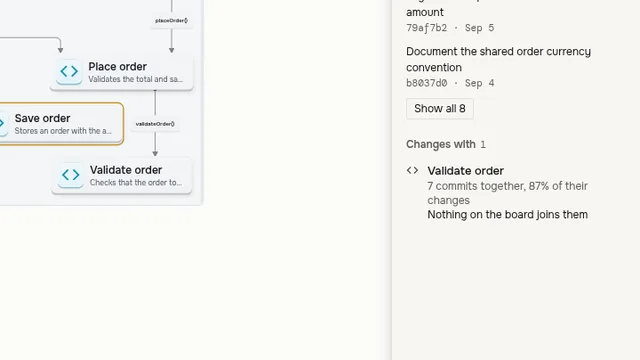
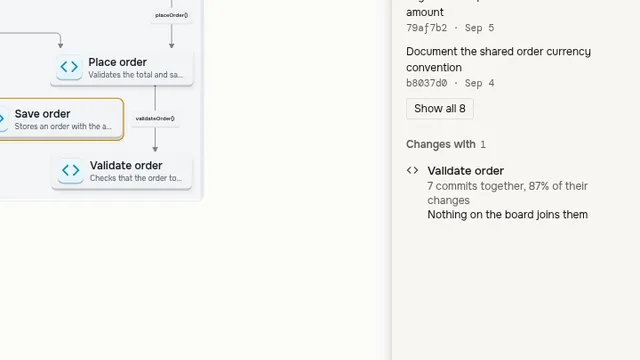
fix(readme): keep the active history label readable
Refs: TASK-523

Refs: TASK-524

Refs: TASK-525

diff --git a/scripts/readme-assets/stage/timeline.html b/scripts/readme-assets/stage/timeline.html
@@ -70,6 +70,7 @@
 					border-color 400ms ease;
 			}
 			.name {
+				opacity: 0;
 				margin-top: 18px;
 				font-size: 22px;
 				font-weight: 600;
@@ -78,6 +79,7 @@
 				transition: color 400ms ease;
 			}
 			.state {
+				opacity: 0;
 				margin-top: 8px;
 				font:
 					500 12px/1 "Archboard DM Mono",
@@ -102,9 +104,11 @@
 				border-color: var(--colour);
 			}
 			.stop.on .name {
+				opacity: 1;
 				color: var(--foreground);
 			}
 			.stop.on .state {
+				opacity: 1;
 				color: var(--colour);
 			}
 			.stop.on .why {

diff --git a/backlog/tasks/task-523 - Keep-the-generated-history-clip-below-the-attachment-limit.md b/backlog/tasks/task-523 - Keep-the-generated-history-clip-below-the-attachment-limit.md
@@ -4,7 +4,8 @@ title: Keep the generated history clip below the attachment limit
 status: In Progress
 assignee:
   - '@codex'
-created_date: '2026-10-24 14:33'
+created_date: 2026-10-24 14:33
+updated_date: '2026-10-24T14:53:00Z'
 labels: []
 dependencies: []
 priority: medium
@@ -28,4 +29,12 @@ The TASK-517 README refresh generated history.webp at 11,957 KB. GitHub accepts 
 
 <!-- SECTION:PLAN:BEGIN -->
 No architecture board changes: only the existing README clip output width changes. Reduce the authored output width and derive its plan text from the same value. Regenerate the history asset after the active README producer finishes. Inspect the generated clip frame and thumbnail, retain all history stops and timings, then run the full normal gate with TASK-517.
+
+Visual inspection shows that the board now has more saved states than the timeline label spacing can hold. Keep every history dot and stop. Show the name and metadata only for the active state so labels remain readable at the reduced width, then regenerate history and inspect the active label.
 <!-- SECTION:PLAN:END -->
+
+## Implementation Notes
+
+<!-- SECTION:NOTES:BEGIN -->
+The reduced lossless clip is 7,431,990 bytes. Its diagram remains readable, but current history names overlap because each stop renders a fixed 420px label. The original tracked thumbnail had six stops. The current board has more saved states. The next change limits labels to the selected stop while preserving every dot and state transition.
+<!-- SECTION:NOTES:END -->

diff --git a/backlog/tasks/task-525 - Restore-the-controlled-Codex-lifecycle-fixture-after-example-support.md b/backlog/tasks/task-525 - Restore-the-controlled-Codex-lifecycle-fixture-after-example-support.md
@@ -1,0 +1,31 @@
+---
+id: TASK-525
+title: Restore the controlled Codex lifecycle fixture after example support
+status: In Progress
+assignee:
+  - '@codex'
+created_date: '2026-10-24T14:52:00Z'
+labels: []
+dependencies: []
+priority: high
+type: bug
+ordinal: 935000
+---
+
+## Description
+
+<!-- SECTION:DESCRIPTION:BEGIN -->
+The TASK-517.03 complete gate reports ten system failures before lifecycle scenarios start. The shared fixture extension rejects a changed source insertion point in fake-codex-production.ts. The example added a small ordinary-only control to that fixture.
+<!-- SECTION:DESCRIPTION:END -->
+
+## Acceptance Criteria
+<!-- AC:BEGIN -->
+- [ ] #1 Every lifecycle scenario starts and passes through its existing assertions.
+- [ ] #2 The fixture extension keeps explicit drift detection and the complete normal gate passes.
+<!-- AC:END -->
+
+## Implementation Plan
+
+<!-- SECTION:PLAN:BEGIN -->
+No architecture board changes: repair the test fixture integration only. Reproduce the failing owners and identify the exact changed insertion point. Keep all scenarios, assertions, guards, and timeouts. Use the smallest compatible fixture repair, run affected owners and scoped checks, simplify, and commit. The parent reruns the complete normal gate.
+<!-- SECTION:PLAN:END -->
